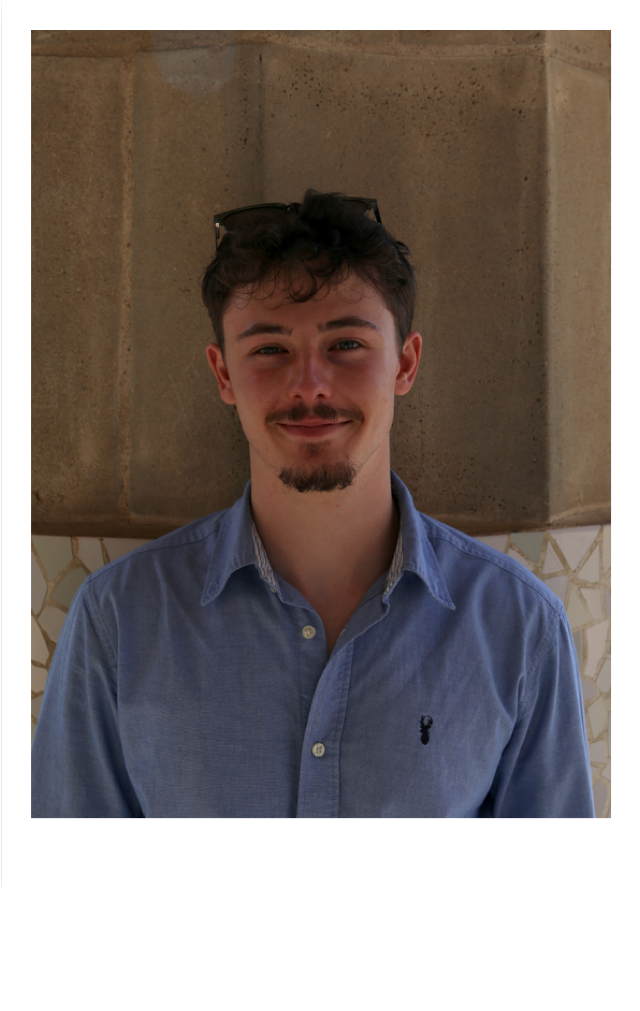
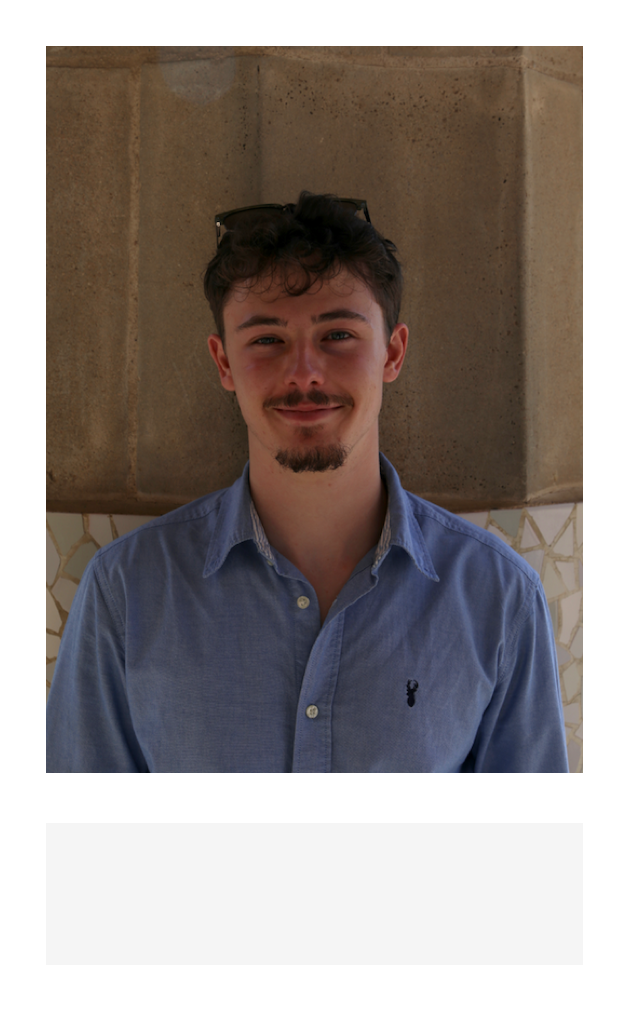
Tweaked the hover and click animations for the photo stack. Also updated the pictures.

diff --git a/src/components/About.jsx b/src/components/About.jsx
@@ -1,6 +1,6 @@
 import { useCallback, useEffect, useRef, useState } from 'react'
 import './About.css'
-import polaroid from '../assets/Polaroid.png'
+import polaroid from '../assets/gradPolaroid.png'
 import bluePolaroid from '../assets/bluePolaroid.png'
 import lionPolaroid from '../assets/lionPolaroid.png'
 import rugbyPolaroid from '../assets/rugbyPolaroid.png'
@@ -13,9 +13,6 @@ const PHOTOS = [
   { id: 'p4', src: rugbyPolaroid, alt: 'Dylan Peacock, photo 4' },
 ]
 
-// Fixed per-photo tilt/offset, keyed by index into PHOTOS (cycles if there
-// are more photos than presets) so each picture's look is stable as it
-// moves through the stack.
 const PHOTO_STYLES = [
   { rotate: -4, x: 0, y: 0 },
   { rotate: 3, x: 6, y: -4 },
@@ -23,8 +20,12 @@ const PHOTO_STYLES = [
   { rotate: 5, x: 3, y: 5 },
 ]
 
-// Keep in sync with the .about-photo-frame.is-lifted transition duration in About.css
-const LIFT_DURATION = 260
+// Keep in sync with the .about-photo-frame.is-picking-up transition duration in About.css
+// this is how long the "pick up & drift right" phase runs before the card is reordered
+// to the back of the stack and eases into its "drop into the stack" pose.
+const PICKUP_DURATION = 220
+
+const REDUCED_MOTION_QUERY = '(prefers-reduced-motion: reduce)'
 
 const QUIRKS = [
   { label: 'Reading & making art', note: 'analogue hobbies for when life gets loud' },
@@ -40,20 +41,26 @@ const QUIRKS = [
 export default function About() {
 
   const [order, setOrder] = useState(() => PHOTOS.map((p) => p.id))
-  const [liftedId, setLiftedId] = useState(null)
+  const [cyclingId, setCyclingId] = useState(null)
   const timeoutRef = useRef(null)
 
   useEffect(() => () => clearTimeout(timeoutRef.current), [])
 
   const cyclePhotos = useCallback(() => {
-    if (liftedId || order.length < 2) return
+    if (cyclingId || order.length < 2) return
     const frontId = order[0]
-    setLiftedId(frontId)
+    // Reduced-motion users get the same CSS transitions collapsed to ~instant (see
+    // About.css), so there's no reason to hold the reorder behind the pickup delay here.
+    const prefersReducedMotion = window.matchMedia?.(REDUCED_MOTION_QUERY).matches
+    setCyclingId(frontId)
     timeoutRef.current = setTimeout(() => {
+      // Reorder to the back and drop the "picking up" pose in the same update, so the
+      // card's transform eases from its lifted/drifted pose straight into its resting
+      // tilt — but now underneath the rest of the stack, reading as it dropping in.
       setOrder((prev) => [...prev.slice(1), prev[0]])
-      setLiftedId(null)
-    }, LIFT_DURATION)
-  }, [liftedId, order])
+      setCyclingId(null)
+    }, prefersReducedMotion ? 0 : PICKUP_DURATION)
+  }, [cyclingId, order])
 
   const handleKeyDown = (event) => {
     if (event.key === 'Enter' || event.key === ' ') {
@@ -69,23 +76,27 @@ export default function About() {
           <p className="eyebrow">About</p>
           <h2 className="about-title">Still figuring it out, deliberately.</h2>
           <div
-            className="about-photo-stack"
+            className={`about-photo-stack${cyclingId ? ' is-cycling' : ''}`}
             role="button"
             tabIndex={0}
             aria-label="Show next photo"
             onClick={cyclePhotos}
             onKeyDown={handleKeyDown}
           >
-            {order.map((id, stackIndex) => {
-              const photoIndex = PHOTOS.findIndex((p) => p.id === id)
-              const photo = PHOTOS[photoIndex]
+            {/* Mapped over PHOTOS (fixed order), never over `order`: reordering the
+                DOM itself breaks the CSS transition on the card being cycled to the back
+                (moving a node's position in the tree resets its in-flight transition). Stack
+                position is expressed purely through z-index/className instead. */}
+            {PHOTOS.map((photo, photoIndex) => {
+              const stackIndex = order.indexOf(photo.id)
+              const isFront = stackIndex === 0
               const { rotate, x, y } = PHOTO_STYLES[photoIndex % PHOTO_STYLES.length]
               return (
                 <div
-                  key={id}
-                  className={`about-photo-frame${id === liftedId ? ' is-lifted' : ''}`}
+                  key={photo.id}
+                  className={`about-photo-frame${isFront ? ' is-front' : ''}${photo.id === cyclingId ? ' is-picking-up' : ''}`}
                   style={{
-                    zIndex: order.length - stackIndex,
+                    zIndex: PHOTOS.length - stackIndex,
                     '--tilt': `${rotate}deg`,
                     '--offset-x': `${x}px`,
                     '--offset-y': `${y}px`,

diff --git a/src/components/About.css b/src/components/About.css
@@ -40,15 +40,46 @@
   padding: 12px 12px 28px;
   box-shadow: 0 10px 24px rgba(11, 14, 26, 0.08);
   transform: rotate(var(--tilt, -2deg)) translate(var(--offset-x, 0), var(--offset-y, 0));
-  transition: transform 260ms ease, box-shadow 260ms ease;
+  filter: blur(0);
+  transition: transform 260ms ease, box-shadow 260ms ease, filter 260ms ease;
 }
 
-/* Picked up off the top of the stack, about to be tucked in behind the rest */
-.about-photo-frame.is-lifted {
-  transform: rotate(calc(var(--tilt, -2deg) * 0.4))
-    translate(var(--offset-x, 0), calc(var(--offset-y, 0) - 36px)) scale(1.05);
-  box-shadow: 0 20px 32px rgba(11, 14, 26, 0.18);
-  transition: transform 260ms ease, box-shadow 260ms ease;
+/* Only the top card stays in focus — the rest of the stack recedes, so cycling
+   through photos reads clearly as "one card in front, the rest behind." */
+.about-photo-frame:not(.is-front) {
+  filter: blur(1px);
+}
+
+/* Hover affordance on the front card only — a quiet peek, not the full pick-up.
+   Disabled mid-cycle so it doesn't fight the click-driven animation below. */
+.about-photo-stack:not(.is-cycling):hover .about-photo-frame.is-front {
+  transform: rotate(calc(var(--tilt, -2deg) * 0.6))
+    translate(var(--offset-x, 0), calc(var(--offset-y, 0) - 14px)) scale(1.02);
+  box-shadow: 0 14px 26px rgba(11, 14, 26, 0.12);
+}
+
+/* Phase 1 (click): picked up off the stack and drifting right, still on top */
+.about-photo-frame.is-picking-up {
+  transform: rotate(calc(var(--tilt, -2deg) * 0.35))
+    translate(calc(var(--offset-x, 0) + 46px), calc(var(--offset-y, 0) - 46px)) scale(1.06);
+  box-shadow: 0 22px 34px rgba(11, 14, 26, 0.2);
+  transition: transform 220ms ease, box-shadow 220ms ease, filter 220ms ease;
+}
+
+/* Phase 2 (click): the instant it's reordered to the back, .is-picking-up drops off and
+   the base .about-photo-frame transition above eases it from the drifted pose back to
+   its resting tilt — now underneath the rest of the stack, reading as it dropping in. */
+
+/* Cycling and the hover peek stay fully functional, just without the animated motion —
+   transitions collapse to near-instant rather than being removed outright, so nothing
+   relies on a duration that no longer exists. Paired with the matchMedia check in
+   About.jsx, which skips the JS delay between phases so there's no dead pause either. */
+@media (prefers-reduced-motion: reduce) {
+  .about-photo-frame,
+  .about-photo-frame.is-picking-up,
+  .about-photo-stack:not(.is-cycling):hover .about-photo-frame.is-front {
+    transition-duration: 0.01ms;
+  }
 }
 
 .about-photo {
